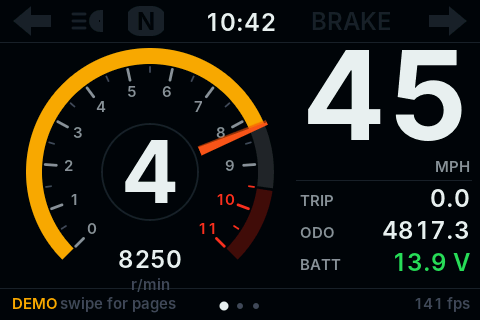
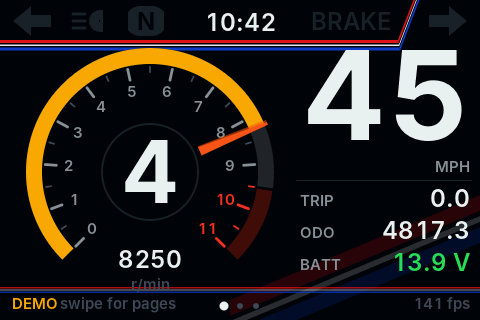
Dash demo: retro tricolour stripe background (RETRO_STRIPES setting)
Claude-Session: https://claude.ai/code/session_01EhMcsDqwmw83FR1G3AXd3V

Changed region(s): [[0.0, 0.5938, 1.0, 1.0], [0.0, 0.0, 0.875, 0.1562]]

diff --git a/firmware/xl-dash-demo/dash_demo.h b/firmware/xl-dash-demo/dash_demo.h
@@ -31,6 +31,11 @@
 // Ghost trail behind the needle (fake motion blur). 0 = off.
 #define GHOST_TRAIL 1
 
+// 80s-style tricolour stripes in the background. 0 = plain background.
+// STRIPE_ALPHA = how strong the big diagonal stripes are (0-255, ~40 = subtle).
+#define RETRO_STRIPES 1
+#define STRIPE_ALPHA 46
+
 // GPS (optional). TX wire from the GPS goes to GPS_RX_PIN. -1 = no GPS.
 #define GPS_RX_PIN 17
 #define GPS_TX_PIN 18
@@ -449,11 +454,51 @@ static const Rect R_SPEED = {282, 50, 194, 102};
 static const Rect R_TRIP = {340, 186, 136, 28}, R_ODO = {340, 218, 136, 28}, R_BATT = {340, 250, 136, 28};
 
 // ------------------------------------------------------------------ static backgrounds
+// Retro tricolour (red / white / blue) stripes, 80s dirt-bike tank style.
+static const uint16_t C_S_RED = RGB(230, 20, 30), C_S_WHT = RGB(235, 235, 240), C_S_BLU = RGB(20, 60, 200);
+static void slantBand(float x0, float y0, float x1, float thick, float slope, uint16_t c, uint8_t a) {
+  // parallelogram from x0 to x1, top edge y = y0 + slope*(x - x0), 'thick' px tall
+  float xs[4] = {x0, x1, x1, x0};
+  float ys[4] = {y0, y0 + slope * (x1 - x0), y0 + slope * (x1 - x0) + thick, y0 + thick};
+  convexPoly(xs, ys, 4, c, a);
+}
+static void kinkedBand(float y, float thick, float kx, float slope, uint16_t c, uint8_t a) {
+  // flat from the left edge to kx, then kicks up to the top edge at 'slope'
+  float xa = kx + (y - 40) * 0.2f, xb = xa + thick * 0.2f;   // corner shifts so the bands stay parallel
+  float fx[4] = {-2, xa, xb, -2}, fy[4] = {y, y, y + thick, y + thick};
+  convexPoly(fx, fy, 4, c, a);
+  float up = (y + thick) / -slope;
+  float kxs[4] = {xa, xa + y / -slope, xb + (y + thick) / -slope + 0.0f * up, xb};
+  float kys[4] = {y, 0, 0, y + thick};
+  kxs[2] = xb + (y + thick) / -slope;
+  convexPoly(kxs, kys, 4, c, a);
+}
+static void retroStripes(int p) {
+  // big faint diagonal sweep, low on the right
+  const float SL = -0.42f;
+  float y = (p == 0) ? 300 : 290;
+  slantBand(230, y, 490, 16, SL, C_S_RED, STRIPE_ALPHA);
+  slantBand(230, y + 21, 490, 6, SL, C_S_WHT, STRIPE_ALPHA);
+  slantBand(230, y + 32, 490, 16, SL, C_S_BLU, STRIPE_ALPHA);
+  // solid tricolour rule under the top bar, kicking up between BRAKE and the right arrow
+  kinkedBand(40, 3, 398, -2.6f, C_S_RED, 255);
+  kinkedBand(44.5f, 1.5f, 398, -2.6f, C_S_WHT, 255);
+  kinkedBand(47.5f, 3, 398, -2.6f, C_S_BLU, 255);
+  // thin tricolour above the bottom bar
+  slantBand(-2, 287, 482, 1.5f, 0, C_S_RED, 200);
+  slantBand(-2, 289.5f, 482, 1, 0, C_S_WHT, 160);
+  slantBand(-2, 291.5f, 482, 1.5f, 0, C_S_BLU, 200);
+}
+
 static void renderBg(int p) {
   T = bg[p]; clipAll();
   fillRect(0, 0, W, H, C_BG);
+#if RETRO_STRIPES
+  retroStripes(p);
+#else
   hline(0, 42, W, C_OFF);
   hline(0, 288, W, C_OFF);
+#endif
   text(F_SMALL, 12, 309, "DEMO", C_AMB);
   text(F_SMALL, 60, 309, "swipe for pages", C_DIM);
   if (p == 0) {
